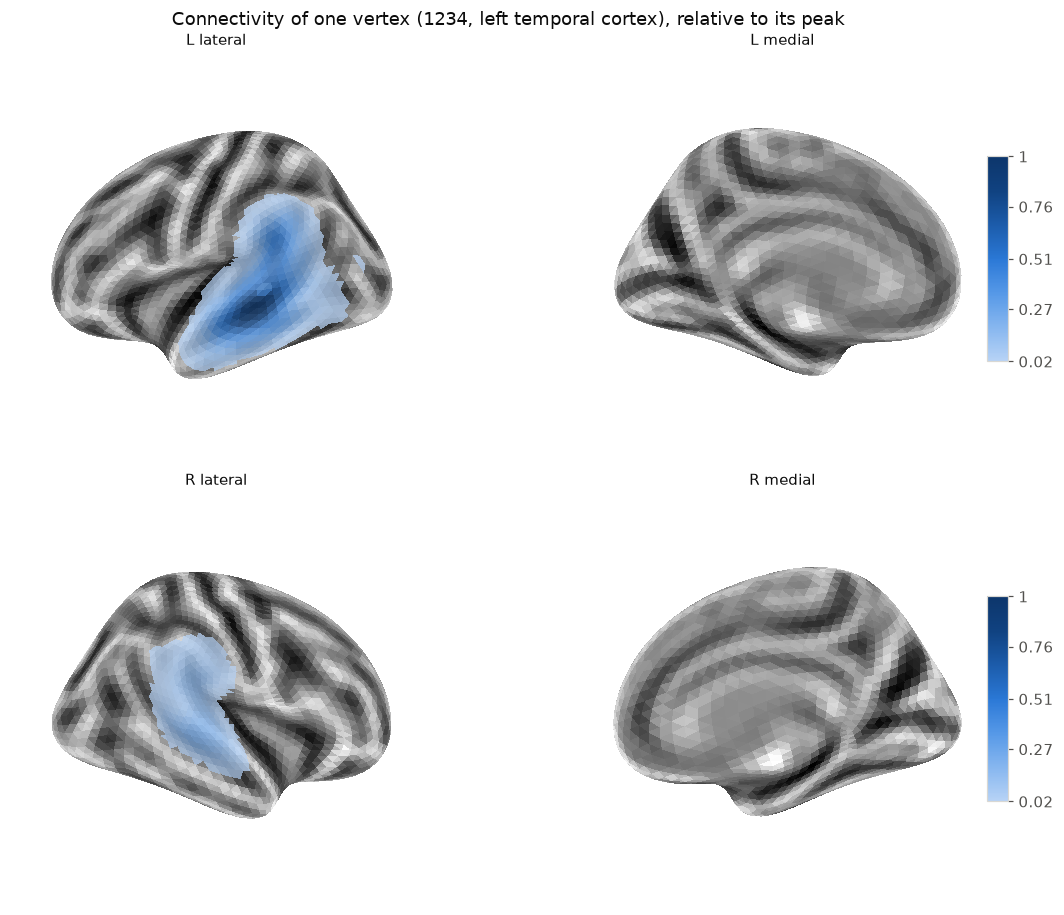
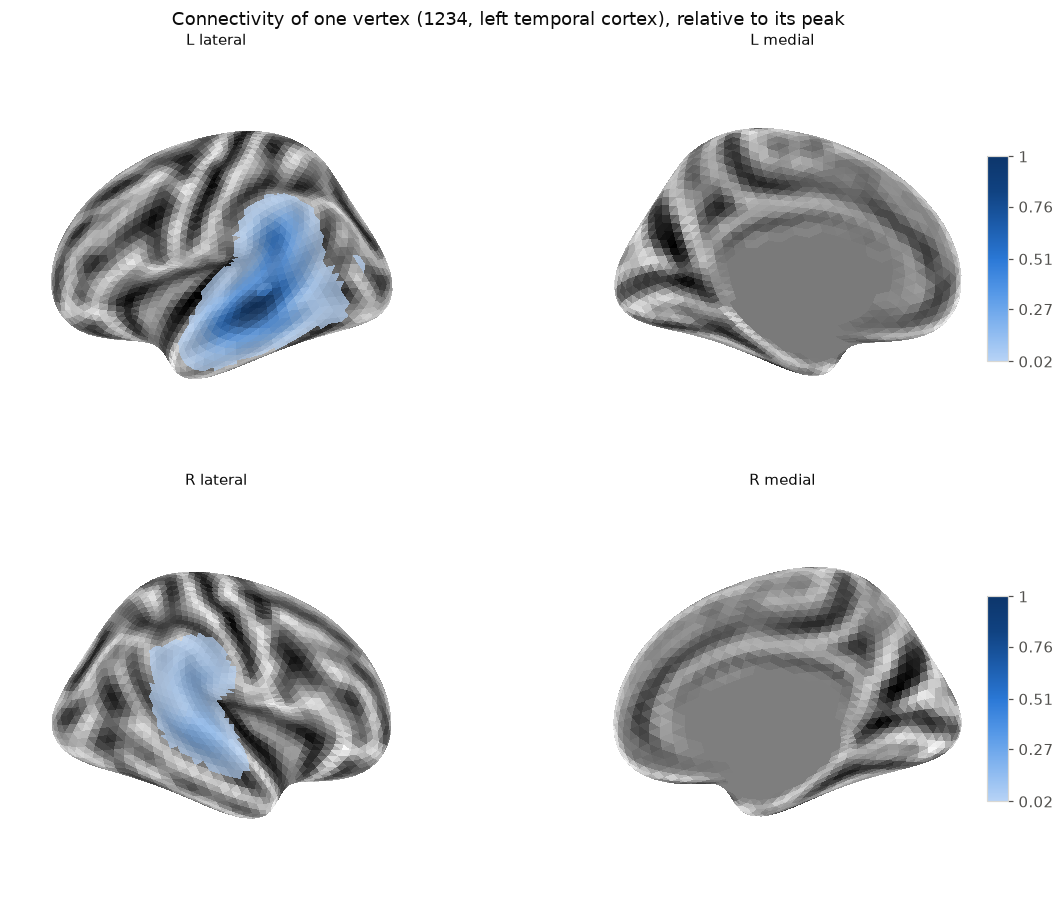
Shade the medial wall flat: it is a cut surface, not folded cortex
The sulcal-depth shading was computed over every vertex, and FreeSurfer
covers the medial wall with a filler surface whose own bends -- the cut
through the callosum and the ventricles -- were shaded as if they were
sulci. The wall is now flat gray: plot_surface() zeroes the shading outside
cortex, taking the mask from the connectome when one is plotted and from
the bundled Desikan atlas otherwise. That mask is now a public helper,
sbci.atlas.cortex_mask(), which the synthetic examples use too. A test
records what is handed to nilearn and checks the wall carries no folds
while the cortex does. Figures redrawn.

Changed region(s): [[0.6823, 0.2448, 0.8684, 0.3978], [0.6203, 0.7344, 0.8064, 0.8874]]

diff --git a/src/sbci/plotting.py b/src/sbci/plotting.py
@@ -12,15 +12,16 @@ hemisphere seen laterally and medially -- and that is what
 depth (:func:`sbci.surface.sulcal_depth`), so the folds show through the map
 the way they do in FreeSurfer's and nilearn's own figures; without it a map
 that is small over most of the cortex leaves the brain an unreadable white.
-A map with NaNs, as :func:`sbci.coupling.global_coupling` returns for the
-medial wall, renders those vertices as bare shaded surface rather than at
-one end of the scale.
+The medial wall, which carries no cortex, is shaded flat; a map with NaNs
+there, as :func:`sbci.coupling.global_coupling` returns, renders those
+vertices as that flat surface rather than at one end of the scale.
 """
 
 from __future__ import annotations
 
 import numpy as np
 
+from .atlas import cortex_mask
 from .surface import GEOMETRIES, load_surface, sulcal_depth
 
 SURFACES = GEOMETRIES
@@ -76,8 +77,11 @@ def plot_surface(
     shading
         Shade the surface by sulcal depth from the white surface, darker in
         the sulci, with the map's colours laid over it (``bg_on_data`` in
-        nilearn's terms). ``False`` draws the bare mesh under the map. Pass
-        your own ``bg_map`` through ``kwargs`` to shade by something else.
+        nilearn's terms). Outside cortex -- the medial wall, from the
+        connectome's mask or the bundled atlas -- the shading is flat, so the
+        wall reads as the cut surface it is. ``False`` draws the bare mesh
+        under the map. Pass your own ``bg_map`` through ``kwargs`` to shade by
+        something else.
 
     Returns
     -------
@@ -141,7 +145,14 @@ def plot_surface(
     half = mesh.n_vertices // 2
     per_hemisphere = {"L": values[:half], "R": values[half:]}
     if shading and "bg_map" not in kwargs:
-        depth = sulcal_depth()
+        # Flat outside cortex: FreeSurfer fills the medial wall with a surface
+        # that has curvature of its own, which would otherwise be shaded as if
+        # it were folded cortex. The connectome's mask says where cortex is;
+        # without one, the bundled medial wall does.
+        cortex = (
+            np.asarray(connectome.mask, dtype=bool) if connectome is not None else cortex_mask()
+        )
+        depth = np.where(cortex, sulcal_depth(), 0.0)
         backgrounds = {"L": depth[:half], "R": depth[half:]}
         kwargs.setdefault("bg_on_data", True)
         kwargs.setdefault("alpha", 1.0)

diff --git a/tests/test_surface.py b/tests/test_surface.py
@@ -239,3 +239,22 @@ def test_plot_can_run_without_shading(surface_map):
 
     figure = plot_surface(surface_map, views=("lateral",), shading=False)
     assert figure is not None
+
+
+def test_shading_is_flat_on_the_medial_wall(monkeypatch):
+    """The wall is a cut surface, not cortex: its shading must carry no folds."""
+    from nilearn import plotting as nilearn_plotting
+
+    from sbci.atlas import cortex_mask
+    from sbci.plotting import plot_surface
+
+    recorded = []
+    monkeypatch.setattr(nilearn_plotting, "plot_surf", lambda *a, **k: recorded.append(k))
+    figure = plot_surface(np.ones(N_VERTICES), views=("medial",))
+    matplotlib.pyplot.close(figure)
+    half = N_VERTICES_PER_HEMI
+    cortex = cortex_mask()
+    for background, rows in zip(recorded, (slice(0, half), slice(half, None)), strict=True):
+        assert background["bg_on_data"] is True
+        wall, folds = background["bg_map"][~cortex[rows]], background["bg_map"][cortex[rows]]
+        assert np.ptp(wall) == 0.0 and np.ptp(folds) > 1.0

diff --git a/src/sbci/examples.py b/src/sbci/examples.py
@@ -43,7 +43,7 @@ from functools import lru_cache
 import numpy as np
 
 from . import grid, spec
-from .atlas import load_atlas
+from .atlas import cortex_mask
 from .connectome import ContinuousConnectome
 from .metadata import Metadata, template
 from .surface import load_surface
@@ -326,7 +326,7 @@ def _build(modality: str, seed: int, n_streamlines: int) -> ContinuousConnectome
     rng = np.random.default_rng(seed)
     sphere = load_surface("sphere")
     # The mask is real: the medial wall carries no Desikan region.
-    mask = load_atlas("Desikan").labels != 0
+    mask = cortex_mask()
     area = _vertex_areas(sphere)
     centres = _centres(sphere, mask, rng)
 
@@ -488,7 +488,7 @@ def _build_cohort(
 
     shared = np.random.default_rng([seed, 0])
     sphere = load_surface("sphere")
-    mask = load_atlas("Desikan").labels != 0
+    mask = cortex_mask()
     area = _vertex_areas(sphere)
     centres = _centres(sphere, mask, shared)
     weights = shared.gamma(2.0, 1.0, size=N_COMPONENTS)

diff --git a/src/sbci/atlas.py b/src/sbci/atlas.py
@@ -272,3 +272,21 @@ def load_atlas(name: str) -> Atlas:
             labels=np.asarray(data["labels"], dtype=np.int32),
             names=tuple(str(n) for n in data["names"]),
         )
+
+
+def cortex_mask() -> np.ndarray:
+    """``True`` on cortex and ``False`` on the medial wall, over the whole grid.
+
+    The wall is where the bundled Desikan atlas assigns no region (label 0):
+    the cut surface between the hemispheres, which carries no cortex and no
+    connectivity. This is the mask the synthetic examples use and the one
+    figures shade flat.
+
+    Examples
+    --------
+    >>> from sbci.atlas import cortex_mask
+    >>> mask = cortex_mask()
+    >>> mask.shape, int(mask.sum())
+    ((5124,), 4685)
+    """
+    return load_atlas("Desikan").labels != 0

diff --git a/docs/figures/README.md b/docs/figures/README.md
@@ -11,9 +11,10 @@ python scripts/make_figures.py docs/figures
 which needs the plotting extra and takes a few minutes (a rank-4 FPCA on ten
 subjects and one ConSEAL registration); on a cluster, run it in a batch job.
 The surface views are shaded by sulcal depth (dark in the sulci), computed
-from the bundled white surface; the medial wall, which carries no cortex,
-shows as bare shaded surface. Maps are thresholded at a few percent of their
-peak so that the shading shows where there is nothing to see.
+from the bundled white surface; the medial wall, which is the cut surface
+between the hemispheres and carries no cortex, is left flat gray. Maps are
+thresholded at a few percent of their peak so that the shading shows where
+there is nothing to see.
 
 | Figure | What it shows |
 | --- | --- |

diff --git a/USAGE.md b/USAGE.md
@@ -178,8 +178,9 @@ figure.savefig("coupling.png", dpi=150)
 ```
 
 Four panels, each hemisphere seen laterally and medially, on a surface shaded
-by sulcal depth so the folds show through the map (`shading=False` draws the
-bare mesh; `threshold=` hides the small values so the shading shows there).
+by sulcal depth so the folds show through the map, with the medial wall left
+flat since it is a cut surface and not cortex (`shading=False` draws the bare
+mesh; `threshold=` hides the small values so the shading shows there).
 Needs the plotting extra, which `setup_longleaf.sh` installs. Four geometries
 are bundled -- inflated (the default), white, pial and sphere -- all in the
 grid's vertex order and sharing one face list (`SPEC_QUESTIONS.md` items 11
